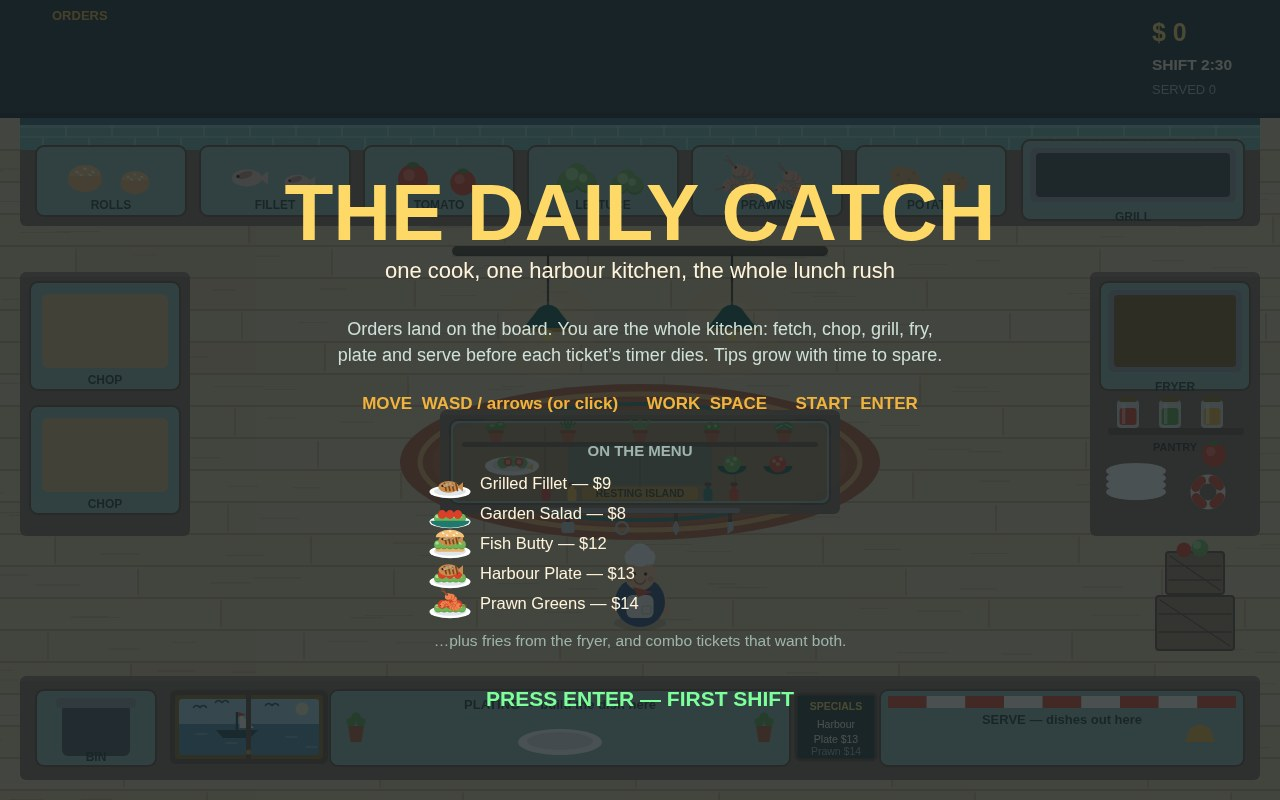
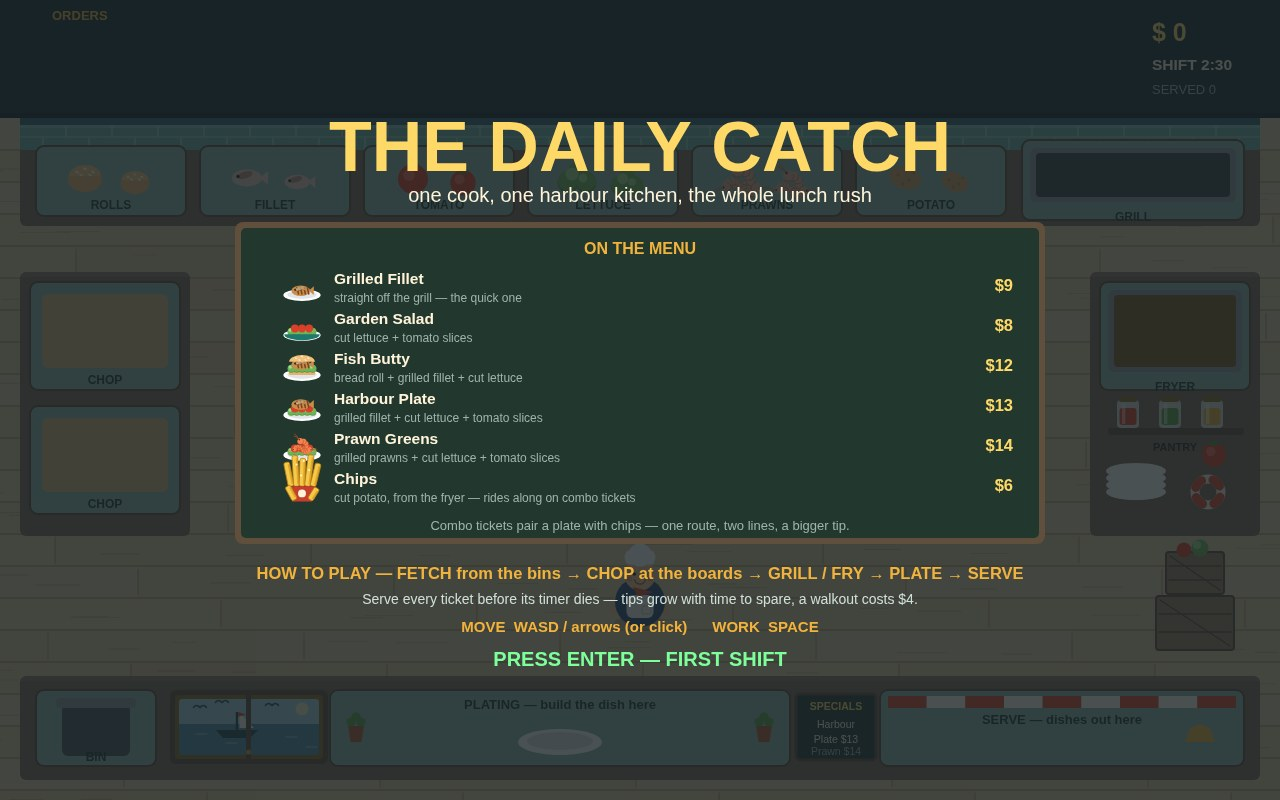
V5: title menu board (all six dishes, components, prices) and the PRESS ENTER collision fixed; end screen tells the shift dish by dish with a letter grade; servedBy counting; difficulty audited — balance unchanged

Changed region(s): [[0.1562, 0.125, 0.8438, 0.9062], [0.5938, 0.5625, 0.625, 0.5938]]

diff --git a/game/src/render.js b/game/src/render.js
@@ -3,7 +3,7 @@
 // Nothing here changes the game — it only reads the state and draws it.
 
 import { BOARD_H, COLORS, FRYER_BURN, FRYER_COOK, GRILL_BURN, GRILL_COOK, SOLIDS, STATIONS, VIEW } from './config.js';
-import { DISHES, COOKED, RECIPES, recipeForStack } from './recipes.js';
+import { DISHES, COOKED, FRIES, INGREDIENTS, RECIPES, recipeForStack } from './recipes.js';
 import { nearestStation } from './actions.js';
 
 const FONT = "'Trebuchet MS', 'Segoe UI', Verdana, sans-serif";
@@ -1068,32 +1068,67 @@ function drawBoard(ctx, state) {
   text(ctx, `SERVED ${state.served}`, hx, 90, 13, '#9fb4ac', 'left', false);
 }
 
+/** A chalkboard panel in the specials board's own style: wood frame, dark green board. */
+function chalkPanel(ctx, x, y, w, h) {
+  ctx.fillStyle = '#5f4f3c';
+  rr(ctx, x, y, w, h, 8); ctx.fill();
+  ctx.fillStyle = '#22382e';
+  rr(ctx, x + 6, y + 6, w - 12, h - 12, 5); ctx.fill();
+}
+
 function drawOverlays(ctx, state) {
   if (state.phase === 'play') return;
   ctx.fillStyle = 'rgba(23, 32, 36, 0.78)';
   ctx.fillRect(0, 0, VIEW.width, VIEW.height);
   const cx = VIEW.width / 2;
   if (state.phase === 'title') {
-    text(ctx, 'THE DAILY CATCH', cx, 218, 80, '#ffd968');
-    text(ctx, 'one cook, one harbour kitchen, the whole lunch rush', cx, 272, 22, COLORS.cream, 'center', false);
-    text(ctx, 'Orders land on the board. You are the whole kitchen: fetch, chop, grill, fry,', cx, 330, 18, '#cfe0d8', 'center', false);
-    text(ctx, 'plate and serve before each ticket’s timer dies. Tips grow with time to spare.', cx, 356, 18, '#cfe0d8', 'center', false);
-    text(ctx, 'MOVE  WASD / arrows (or click)      WORK  SPACE      START  ENTER', cx, 404, 17, COLORS.mustard);
-    text(ctx, 'ON THE MENU', cx, 452, 15, '#9fb4ac');
-    RECIPES.forEach((recipe, i) => {
-      const y = 484 + i * 30;
-      drawDish(ctx, recipe.id, cx - 190, y, 44);
-      text(ctx, `${recipe.name} — $${recipe.price}`, cx - 160, y, 16.5, COLORS.cream, 'left', false);
+    text(ctx, 'THE DAILY CATCH', cx, 152, 70, '#ffd968');
+    text(ctx, 'one cook, one harbour kitchen, the whole lunch rush', cx, 196, 20, COLORS.cream, 'center', false);
+    // The menu board: every dish the kitchen serves, what goes into it and what
+    // it pays — the game's depth, chalked up where a judge can read it.
+    chalkPanel(ctx, 235, 222, 810, 322);
+    text(ctx, 'ON THE MENU', cx, 250, 16, COLORS.mustard);
+    const menuNotes = {
+      fillet: 'straight off the grill — the quick one',
+      fries: 'cut potato, from the fryer — rides along on combo tickets',
+    };
+    [...RECIPES, FRIES].forEach((dish, i) => {
+      const y = 288 + i * 40;
+      drawDish(ctx, dish.id, 302, y, 40);
+      text(ctx, dish.name, 334, y - 8, 15.5, COLORS.cream, 'left');
+      const parts = menuNotes[dish.id]
+        || dish.items.map((item) => INGREDIENTS[item].name.toLowerCase()).join(' + ');
+      text(ctx, parts, 334, y + 11, 12, '#9fb4ac', 'left', false);
+      text(ctx, `$${dish.price}`, 1013, y - 2, 16.5, '#ffd968', 'right');
     });
-    text(ctx, '…plus fries from the fryer, and combo tickets that want both.', cx, 484 + RECIPES.length * 30 + 8, 15.5, '#9fb4ac', 'center', false);
-    text(ctx, 'PRESS ENTER — FIRST SHIFT', cx, 700, 21, '#7dff9a');
+    text(ctx, 'Combo tickets pair a plate with chips — one route, two lines, a bigger tip.', cx, 526, 13, '#9fb4ac', 'center', false);
+    text(ctx, 'HOW TO PLAY — FETCH from the bins → CHOP at the boards → GRILL / FRY → PLATE → SERVE', cx, 574, 16.5, COLORS.mustard);
+    text(ctx, 'Serve every ticket before its timer dies — tips grow with time to spare, a walkout costs $4.', cx, 600, 14, '#cfe0d8', 'center', false);
+    text(ctx, 'MOVE  WASD / arrows (or click)      WORK  SPACE', cx, 628, 15, COLORS.mustard);
+    text(ctx, 'PRESS ENTER — FIRST SHIFT', cx, 660, 20, '#7dff9a');
   } else {
-    text(ctx, 'LAST ORDERS — SHIFT OVER', cx, 240, 46, '#ffd968');
-    text(ctx, `You took $ ${state.score}`, cx, 312, 30, COLORS.cream);
-    text(ctx, `Dishes served ${state.served}      Walkouts ${state.walkouts}      Best tip $ ${state.bestTip}`, cx, 362, 19, '#cfe0d8', 'center', false);
-    const grade = state.score >= 220 ? 'EXECUTIVE CHEF' : state.score >= 160 ? 'SOUS CHEF' : state.score >= 100 ? 'LINE COOK' : state.score >= 40 ? 'KITCHEN HAND' : 'DISH PIG (AFFECTIONATE)';
-    text(ctx, `Kitchen grade: ${grade}`, cx, 414, 21, COLORS.mustard);
-    text(ctx, 'PRESS R TO WORK ANOTHER SHIFT', cx, 480, 18, '#7dff9a');
+    text(ctx, 'LAST ORDERS — SHIFT OVER', cx, 184, 44, '#ffd968');
+    text(ctx, `You took $ ${state.score}`, cx, 238, 29, COLORS.cream);
+    // The shift's story, dish by dish: what actually went out of the kitchen,
+    // counted line by line as it was served.
+    chalkPanel(ctx, 290, 264, 700, 196);
+    text(ctx, 'SERVED THIS SHIFT', cx, 288, 13.5, '#9fb4ac');
+    [...RECIPES, FRIES].forEach((dish, i) => {
+      const colX = i < 3 ? 480 : 800;
+      const y = 326 + (i % 3) * 42;
+      const n = state.servedBy[dish.id] || 0;
+      drawDish(ctx, dish.id, colX - 82, y, 40);
+      text(ctx, `${dish.name} ×${n}`, colX - 56, y, 15.5, n > 0 ? COLORS.cream : '#71827a', 'left', false);
+    });
+    text(ctx, `Dishes served ${state.served}      Walkouts ${state.walkouts}      Best tip $ ${state.bestTip}`, cx, 490, 17.5, '#cfe0d8', 'center', false);
+    const [letter, title] = state.score >= 250 ? ['S', 'EXECUTIVE CHEF']
+      : state.score >= 200 ? ['A', 'EXECUTIVE CHEF']
+      : state.score >= 150 ? ['B', 'SOUS CHEF']
+      : state.score >= 100 ? ['C', 'LINE COOK']
+      : state.score >= 50 ? ['D', 'KITCHEN HAND']
+      : ['E', 'DISH PIG (AFFECTIONATE)'];
+    text(ctx, `KITCHEN GRADE: ${letter} — ${title}`, cx, 532, 22, COLORS.mustard);
+    text(ctx, 'PRESS R TO WORK ANOTHER SHIFT', cx, 578, 17, '#7dff9a');
   }
 }
 

diff --git a/game/src/orders.js b/game/src/orders.js
@@ -44,6 +44,7 @@ export function serveDish(state, dishId) {
     const line = ticket.items.find((i) => i.dish === dishId && !i.done);
     if (!line) continue;
     line.done = true;
+    state.servedBy[dishId] = (state.servedBy[dishId] || 0) + 1;
     if (ticket.items.every((i) => i.done)) {
       const tip = Math.round(ticket.price * 0.5 * (ticket.timeLeft / ticket.timeTotal));
       state.score += ticket.price + tip;

diff --git a/game/src/shots.js b/game/src/shots.js
@@ -91,6 +91,8 @@ function end() {
   s.phase = 'over';
   s.score = 236;
   s.served = 14;
+  // Fourteen tickets, three of them combos: fourteen plates plus three chips.
+  s.servedBy = { fillet: 2, salad: 2, butty: 4, harbour: 4, prawns: 2, fries: 3 };
   s.walkouts = 1;
   s.bestTip = 9;
   s.shiftLeft = 0;

diff --git a/game/src/kitchen.js b/game/src/kitchen.js
@@ -12,6 +12,7 @@ export function createGame(seed) {
     shiftLeft: SHIFT_SECONDS,
     score: 0,
     served: 0,
+    servedBy: {}, // dish id -> lines handed over: the shift's story, dish by dish
     walkouts: 0,
     bestTip: 0,
     chef: { x: 640, y: 596, face: 1, carry: null, walk: 0 },
